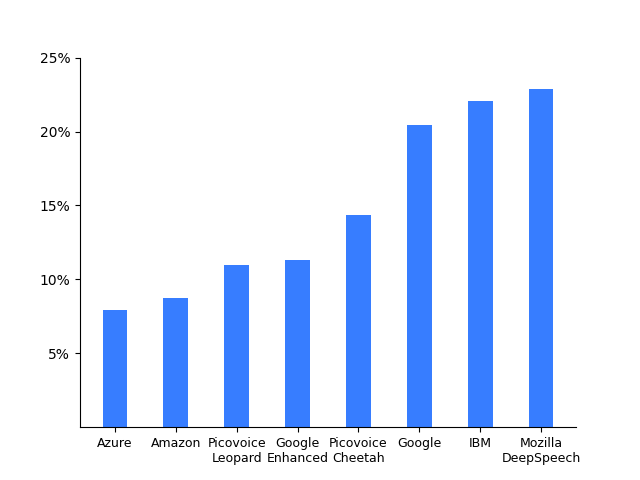
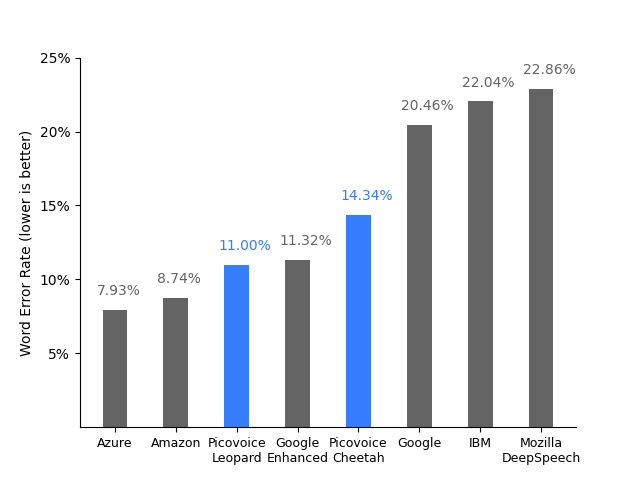
doc fixes

diff --git a/res.py b/res.py
@@ -59,11 +59,16 @@ ENGINE_WER = sorted([(e, sum(w for w in WER[e].values()) / len(Datasets)) for e 
 
 print('\n'.join(f"{e.value}: {x:.2f}" for e, x in sorted(ENGINE_WER, key=lambda x: x[1])))
 
+GREY = (100 / 255, 100 / 255, 100 / 255)
 BLUE = (55 / 255, 125 / 255, 255 / 255)
 
 fig, ax = plt.subplots()
 
-ax.bar(np.arange(1, len(Engines) + 1), [x[1] for x in ENGINE_WER], 0.4, color=BLUE)
+for i, (engine, wer) in enumerate(ENGINE_WER, start=1):
+    color = BLUE if engine is Engines.PICOVOICE_LEOPARD or engine is Engines.PICOVOICE_CHEETAH else GREY
+    ax.bar([i], [wer], 0.4, color=color)
+    ax.text(i - 0.3, wer + 1, f'{wer:.2f}%', color=color)
+
 
 ENGINE_TICKS = {
     Engines.AMAZON_TRANSCRIBE: 'Amazon',
@@ -83,5 +88,7 @@ for spine in plt.gca().spines.values():
 plt.xticks(np.arange(1, len(Engines) + 1), [ENGINE_TICKS[x[0]] for x in ENGINE_WER], fontsize=9)
 
 plt.yticks(np.arange(5, 30, 5), ["%s%%" % str(x) for x in np.arange(5, 30, 5)])
+
+plt.ylabel('Word Error Rate (lower is better)')
 
 plt.show()

diff --git a/README.md b/README.md
@@ -153,7 +153,9 @@ python3 benchmark.py \
 
 ## Results
 
-### Accuracy
+### Word Error Rate (WER)
+
+![](res/summary.png)
 
 |              Engine              | LibriSpeech test-clean | LibriSpeech test-other | TED-LIUM | CommonVoice | Average |
 |:--------------------------------:|:----------------------:|:----------------------:|:--------:|:-----------:|:-------:|
@@ -168,13 +170,11 @@ python3 benchmark.py \
 
 ### RTF
 
-Measurement is carried on an Ubuntu 20.04 machine with Intel CPU (`Intel(R) Core(TM) i5-6500 CPU @ 3.20GHz`), 64 GB of RAM,
-and NVMe storage.
+Measurement is carried on an Ubuntu 20.04 machine with Intel CPU (`Intel(R) Core(TM) i5-6500 CPU @ 3.20GHz`), 64 GB of
+RAM, and NVMe storage.
 
 |       Engine       | RTF  | Model Size |
 |:------------------:|:----:|:----------:|
 | Mozilla DeepSpeech | 0.46 |  1142 MB   |
 | Picovoice Cheetah  | 0.07 |   19 MB    |
 | Picovoice Leopard  | 0.05 |   19 MB    |
-
-![](res/summary.png)
